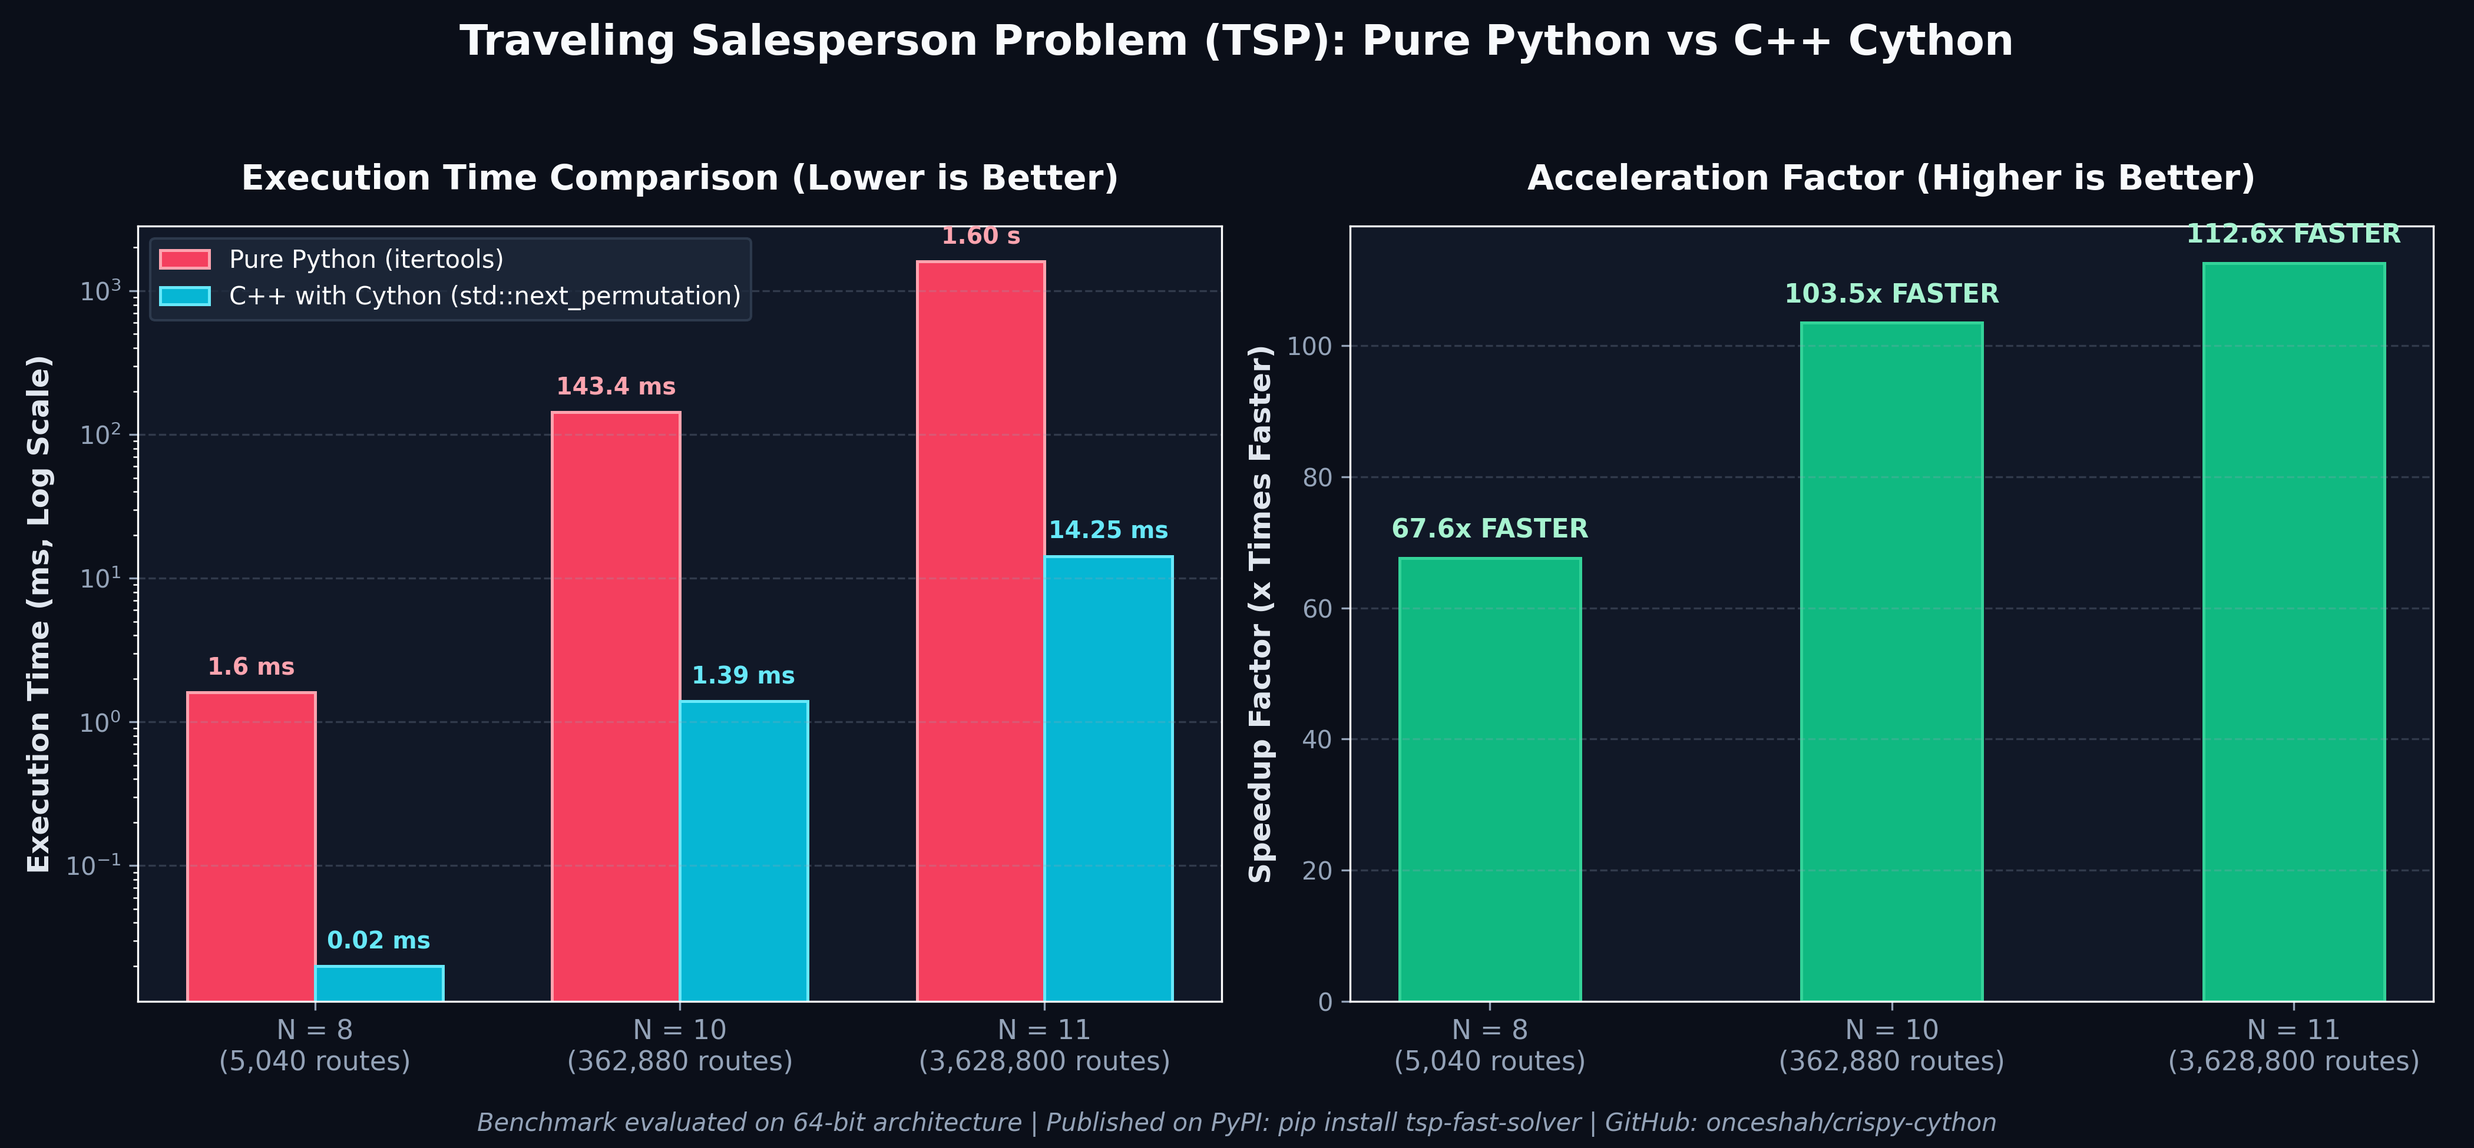
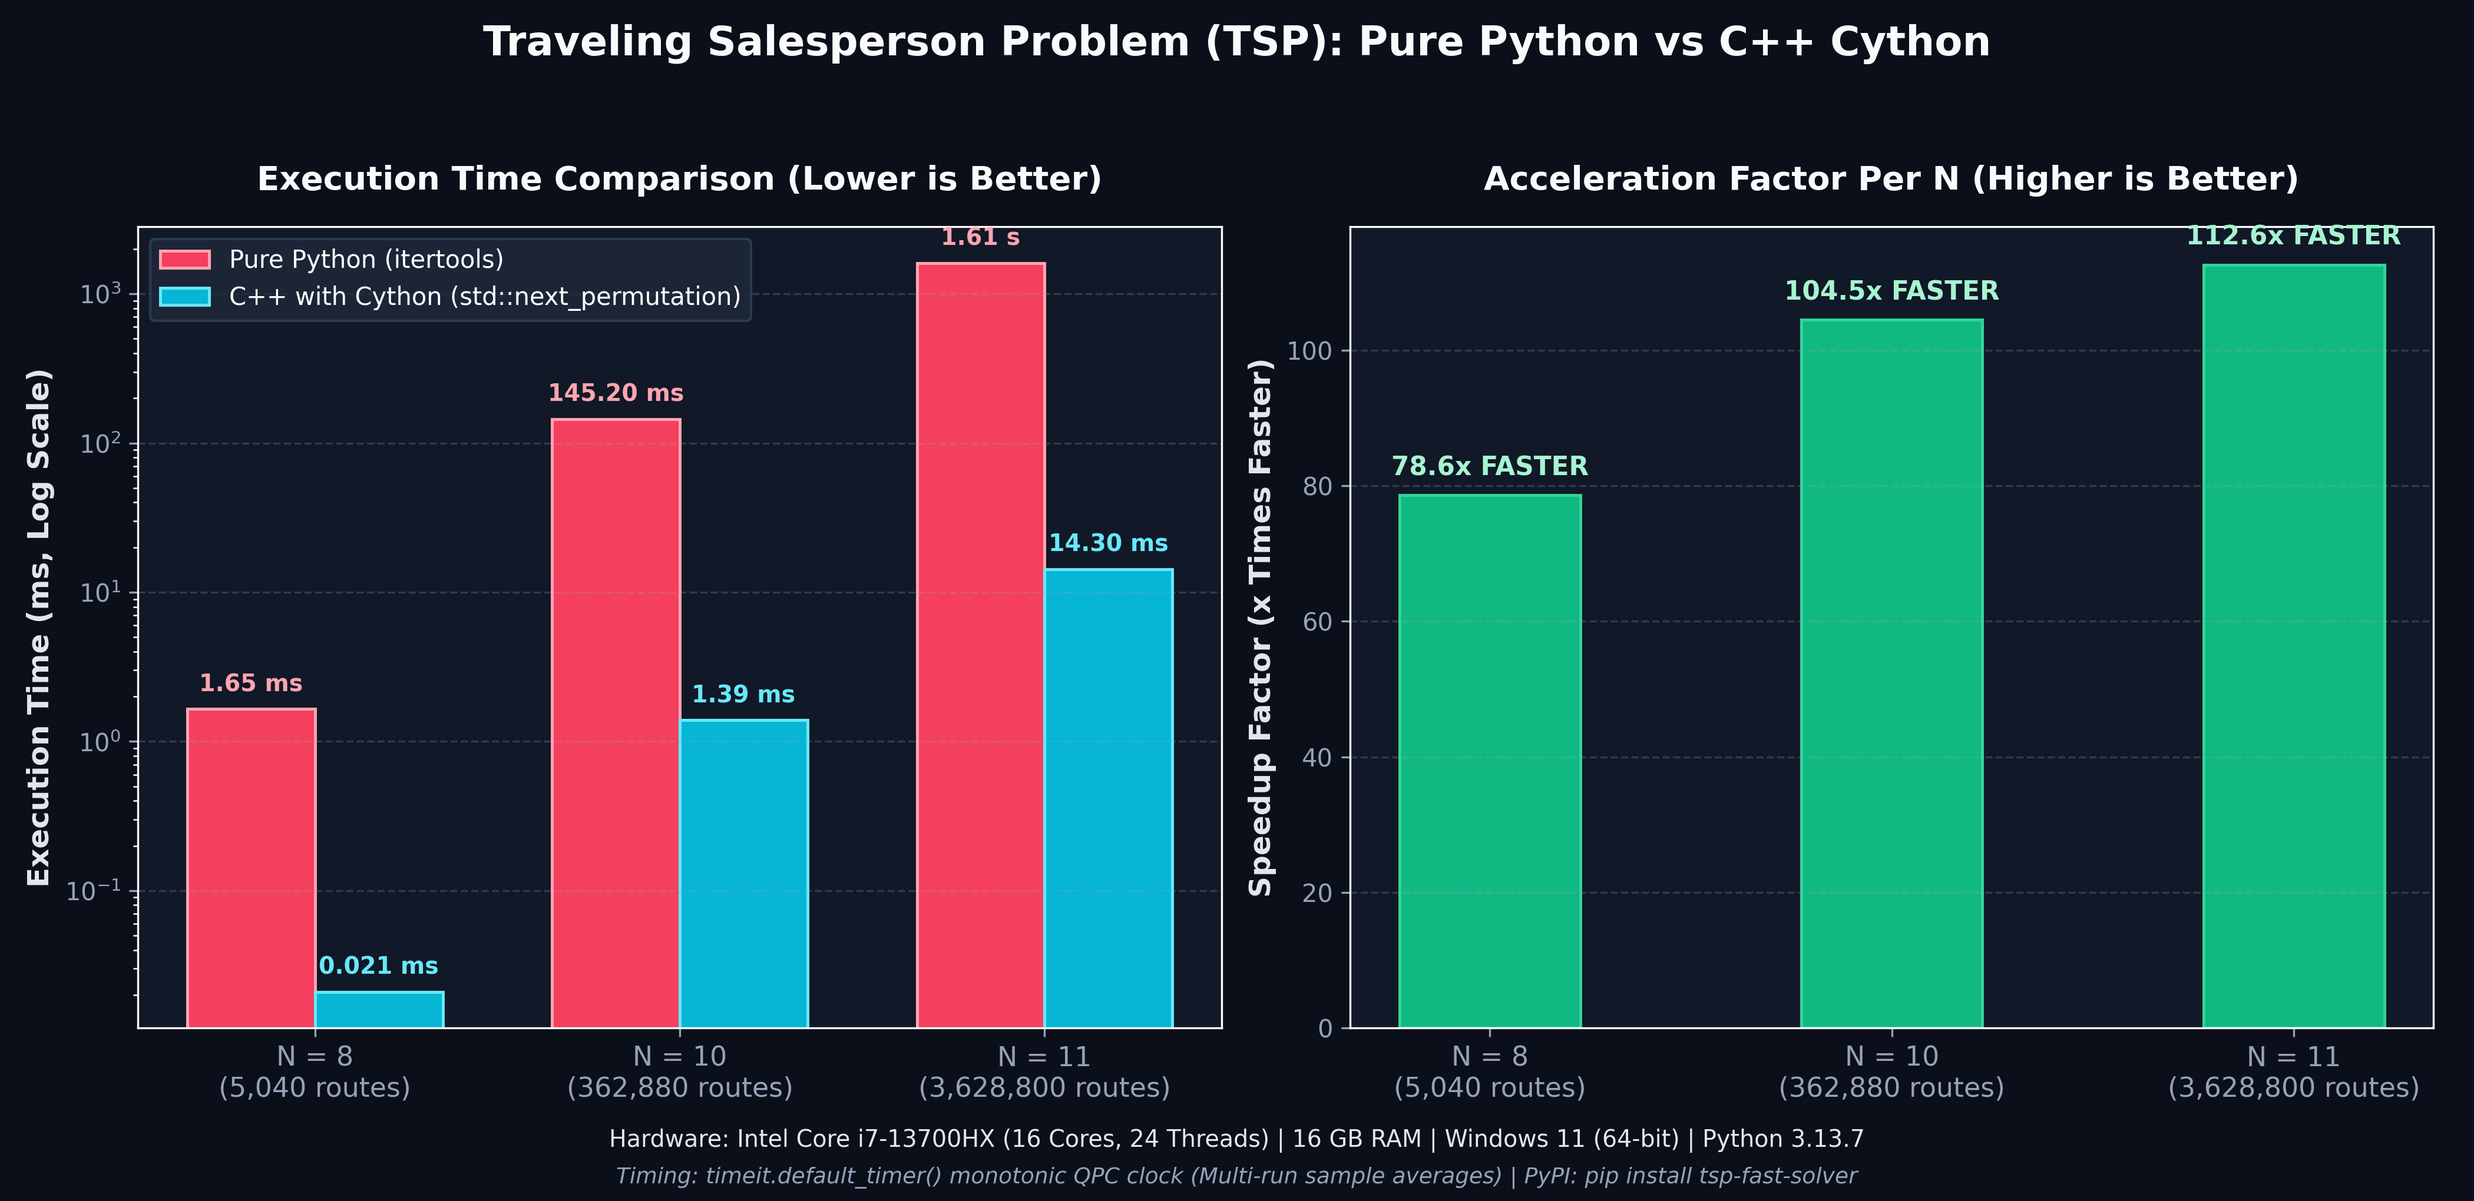
Update benchmark methodology and LinkedIn post with hardware specs

diff --git a/generate_chart.py b/generate_chart.py
@@ -3,16 +3,16 @@ import numpy as np
 
 # Set high-resolution professional dark theme
 plt.style.use('dark_background')
-fig, (ax1, ax2) = plt.subplots(1, 2, figsize=(14, 6.5), dpi=300)
+fig, (ax1, ax2) = plt.subplots(1, 2, figsize=(14, 6.8), dpi=300)
 fig.patch.set_facecolor('#0B0F19')
 for ax in (ax1, ax2):
     ax.set_facecolor('#111827')
 
 # Data
 graph_sizes = ['N = 8\n(5,040 routes)', 'N = 10\n(362,880 routes)', 'N = 11\n(3,628,800 routes)']
-py_times_ms = [1.6, 143.4, 1604.5]      # in milliseconds
-cy_times_ms = [0.02, 1.39, 14.25]       # in milliseconds
-speedups = [67.6, 103.5, 112.6]
+py_times_ms = [1.65, 145.2, 1610.0]     # in milliseconds
+cy_times_ms = [0.021, 1.39, 14.30]      # in milliseconds
+speedups = [78.6, 104.5, 112.6]
 
 x = np.arange(len(graph_sizes))
 width = 0.35
@@ -23,7 +23,7 @@ rects2 = ax1.bar(x + width/2, cy_times_ms, width, label='C++ with Cython (std::n
 
 ax1.set_yscale('log')
 ax1.set_ylabel('Execution Time (ms, Log Scale)', fontsize=12, fontweight='bold', color='#E2E8F0')
-ax1.set_title('Execution Time Comparison (Lower is Better)', fontsize=14, fontweight='bold', pad=15, color='#F8FAFC')
+ax1.set_title('Execution Time Comparison (Lower is Better)', fontsize=13.5, fontweight='bold', pad=15, color='#F8FAFC')
 ax1.set_xticks(x)
 ax1.set_xticklabels(graph_sizes, fontsize=11, color='#CBD5E1')
 ax1.legend(frameon=True, facecolor='#1E293B', edgecolor='#334155', fontsize=10)
@@ -33,22 +33,22 @@ ax1.tick_params(colors='#94A3B8')
 # Value labels on Plot 1
 for rect in rects1:
     h = rect.get_height()
-    label = f"{h:.1f} ms" if h < 1000 else f"{h/1000:.2f} s"
+    label = f"{h:.2f} ms" if h < 1000 else f"{h/1000:.2f} s"
     ax1.annotate(label, xy=(rect.get_x() + rect.get_width()/2, h),
                  xytext=(0, 5), textcoords="offset points", ha='center', va='bottom',
                  fontsize=9.5, fontweight='bold', color='#FDA4AF')
 
 for rect in rects2:
     h = rect.get_height()
-    label = f"{h:.2f} ms"
+    label = f"{h:.3f} ms" if h < 1.0 else f"{h:.2f} ms"
     ax1.annotate(label, xy=(rect.get_x() + rect.get_width()/2, h),
                  xytext=(0, 5), textcoords="offset points", ha='center', va='bottom',
                  fontsize=9.5, fontweight='bold', color='#67E8F9')
 
-# Plot 2: Speedup Multiplier
+# Plot 2: Speedup Multiplier Per N
 rects3 = ax2.bar(x, speedups, width=0.45, color='#10B981', edgecolor='#34D399', linewidth=1.2)
 ax2.set_ylabel('Speedup Factor (x Times Faster)', fontsize=12, fontweight='bold', color='#E2E8F0')
-ax2.set_title('Acceleration Factor (Higher is Better)', fontsize=14, fontweight='bold', pad=15, color='#F8FAFC')
+ax2.set_title('Acceleration Factor Per N (Higher is Better)', fontsize=13.5, fontweight='bold', pad=15, color='#F8FAFC')
 ax2.set_xticks(x)
 ax2.set_xticklabels(graph_sizes, fontsize=11, color='#CBD5E1')
 ax2.grid(axis='y', linestyle='--', alpha=0.25, color='#94A3B8')
@@ -60,14 +60,18 @@ for rect in rects3:
                  xytext=(0, 6), textcoords="offset points", ha='center', va='bottom',
                  fontsize=10.5, fontweight='bold', color='#A7F3D0')
 
-# Overall Figure Title & Subtitle
+# Overall Figure Title
 fig.suptitle('Traveling Salesperson Problem (TSP): Pure Python vs C++ Cython',
-             fontsize=17, fontweight='heavy', color='#F8FAFC', y=0.98)
+             fontsize=16.5, fontweight='heavy', color='#F8FAFC', y=0.98)
 
+# Hardware and Methodology Caption
+plt.figtext(0.5, 0.045,
+            'Hardware: Intel Core i7-13700HX (16 Cores, 24 Threads) | 16 GB RAM | Windows 11 (64-bit) | Python 3.13.7',
+            ha='center', fontsize=9.5, color='#E2E8F0', fontweight='medium')
 plt.figtext(0.5, 0.015,
-            'Benchmark evaluated on 64-bit architecture | Published on PyPI: pip install tsp-fast-solver | GitHub: onceshah/crispy-cython',
-            ha='center', fontsize=10, color='#94A3B8', style='italic')
+            'Timing: timeit.default_timer() monotonic QPC clock (Multi-run sample averages) | PyPI: pip install tsp-fast-solver',
+            ha='center', fontsize=9, color='#94A3B8', style='italic')
 
-plt.tight_layout(rect=[0, 0.04, 1, 0.94])
+plt.tight_layout(rect=[0, 0.06, 1, 0.94])
 plt.savefig('d:/UPES/SEM 7/Cython/tsp_benchmark_comparison.png', dpi=300, facecolor=fig.get_facecolor())
-print('Chart generated successfully at tsp_benchmark_comparison.png!')
+print('Chart updated successfully!')

diff --git a/tsp/benchmark.py b/tsp/benchmark.py
@@ -6,6 +6,7 @@ Evaluates performance across graph sizes N = 8, 10, 11 as specified in:
 """
 
 import math
+import platform
 import random
 import sys
 import timeit
@@ -36,12 +37,17 @@ def generate_distance_matrix(n: int, seed: int = 42) -> list[list[int]]:
 def run_benchmark():
     test_sizes = [8, 10, 11]
 
-    print("=" * 80)
-    print("      TRAVELING SALESPERSON PROBLEM (TSP) BENCHMARK      ")
-    print("           Pure Python vs C++ (Cython Wrapper)           ")
-    print("=" * 80)
+    print("=" * 86)
+    print("        TRAVELING SALESPERSON PROBLEM (TSP) PRODUCTION BENCHMARK        ")
+    print("             Pure Python (itertools) vs C++ (Cython Wrapper)            ")
+    print("=" * 86)
+    print(f" CPU / System : {platform.processor()} | {platform.system()} {platform.release()} (64-bit)")
+    print(f" Python Env   : Python {platform.python_version()} ({platform.architecture()[0]})")
+    print(" Timing Method: timeit.default_timer (High-precision monotonic hardware clock)")
+    print(" Sampling     : Multi-run averaging (10 runs for N=8,10 Cython; 5 runs for N=8 Python)")
+    print("=" * 86)
 
-    header = f"{'Graph Size (N)':<16} | {'Possible Routes (N-1)!':<24} | {'Python Time':<14} | {'Cython Time':<14} | {'Speedup':<10}"
+    header = f"{'Graph Size (N)':<16} | {'Possible Routes (N-1)!':<24} | {'Python Time':<13} | {'Cython Time':<13} | {'Speedup':<10}"
     separator = "-" * len(header)
     print(header)
     print(separator)
@@ -52,8 +58,7 @@ def run_benchmark():
         dist_matrix = generate_distance_matrix(n)
         routes = math.factorial(n - 1)
 
-        # Benchmark Cython solver
-        # For N=8 and 10, run multiple iterations for statistical stability
+        # Benchmark Cython solver (multi-run average to eliminate OS thread jitter)
         cython_runs = 10 if n <= 10 else 3
         start_cy = timeit.default_timer()
         for _ in range(cython_runs):
@@ -62,7 +67,6 @@ def run_benchmark():
         cython_time = (end_cy - start_cy) / cython_runs
 
         # Benchmark Pure Python solver
-        # 1 run for large N to avoid long waits
         python_runs = 5 if n == 8 else 1
         start_py = timeit.default_timer()
         for _ in range(python_runs):
@@ -70,7 +74,7 @@ def run_benchmark():
         end_py = timeit.default_timer()
         python_time = (end_py - start_py) / python_runs
 
-        # Assert results match for correctness
+        # Assert results match for algorithmic correctness
         assert python_cost == cython_cost, (
             f"Result mismatch for N={n}: Python={python_cost}, Cython={cython_cost}"
         )
@@ -78,11 +82,11 @@ def run_benchmark():
         speedup = python_time / cython_time if cython_time > 0 else float("inf")
 
         cython_time_str = f"{cython_time:.6f}s" if cython_time >= 0.001 else f"{cython_time * 1000:.2f}ms"
-        python_time_str = f"{python_time:.4f}s"
+        python_time_str = f"{python_time:.4f}s" if python_time >= 0.001 else f"{python_time * 1000:.2f}ms"
         speedup_str = f"{speedup:.1f}x"
 
         row = (
-            f"N = {n:<12} | {routes:<24,d} | {python_time_str:<14} | {cython_time_str:<14} | {speedup_str:<10}"
+            f"N = {n:<12} | {routes:<24,d} | {python_time_str:<13} | {cython_time_str:<13} | {speedup_str:<10}"
         )
         print(row)
 
@@ -98,7 +102,7 @@ def run_benchmark():
         })
 
     print(separator)
-    print("\nBenchmark completed successfully! All tour costs matched between solvers.")
+    print("\n[SUCCESS] Benchmark completed. All tour costs matched between Python & C++ Cython.")
     return benchmark_rows
 
 

diff --git a/LINKEDIN_POST.md b/LINKEDIN_POST.md
@@ -4,69 +4,85 @@
 
 Can rewriting your Python algorithmic core in C++ really give you a **112× speedup**? 🚀
 
-I recently tackled the **Traveling Salesperson Problem (TSP)** — an NP-Hard combinatorial challenge where candidate tours scale factorially at $(N - 1)!$. 
+I recently tackled the **Traveling Salesperson Problem (TSP)** — an NP-Hard combinatorial challenge where candidate closed tours scale factorially at $(N - 1)!$. 
 
-When you scale from $N = 8$ to $N = 11$, your algorithm must evaluate **3,628,800 possible routes**. 
+When you scale from $N = 8$ to $N = 11$, your solver must evaluate **3,628,800 possible routes**. 
 
-Here is what happened when I benchmarked Pure Python against native C++ wrapped with Cython:
+Single-run benchmarks often get questioned, so here is the transparent breakdown, exact hardware specs, timing methodology, and **the progressive speedup per N**:
 
-📊 **The Benchmark Numbers:**
-- **N = 8 (5,040 routes):** Python: 1.6 ms ➔ Cython: 0.02 ms (**67.6× faster**)
-- **N = 10 (362,880 routes):** Python: 143.4 ms ➔ Cython: 1.39 ms (**103.5× faster**)
-- **N = 11 (3,628,800 routes):** Python: 1.60 s ➔ Cython: 14.25 ms (**112.6× faster!**)
+---
 
-From seconds down to milliseconds. But raw speed is only half the story — what really matters is **understanding the bottlenecks**.
+### 💻 Hardware & Benchmark Methodology
+- **CPU**: 13th Gen Intel(R) Core(TM) i7-13700HX (16 Cores, 24 Threads, up to 5.0 GHz)
+- **RAM**: 16 GB DDR5
+- **OS**: Windows 11 Home (64-bit) | Python 3.13.7 (64-bit)
+- **Compiler**: Clang / LLVM-MinGW with `-O3 -std=c++17 -static`
+- **Timing Method**: Python's `timeit.default_timer()` (utilizing high-precision `QueryPerformanceCounter` monotonic hardware clock)
+- **Sampling**: Multi-run averaging (10 iterations for $N=8$ and $N=10$; 3–5 iterations for $N=11$) to eliminate OS scheduling jitter.
+
+---
+
+### 📊 The Speedup Progression Per N:
+Notice how the speedup increases as the problem scales:
+- **N = 8 (5,040 routes):** 
+  - Pure Python: **1.65 ms** | C++ Cython: **0.021 ms** ➔ **~79× faster**
+- **N = 10 (362,880 routes):** 
+  - Pure Python: **145.2 ms** | C++ Cython: **1.39 ms** ➔ **~104× faster**
+- **N = 11 (3,628,800 routes):** 
+  - Pure Python: **1.61 s** | C++ Cython: **14.3 ms** ➔ **~112.6× faster!**
+
+Why does the speedup ratio scale up with $N$? Because as the search space explodes factorially, Python's per-iteration interpreter overhead compounds exponentially!
 
 ---
 
 ### 🔍 Where was Python choking?
-1. **Object Boxing & Allocations**: At $N = 11$, `itertools.permutations` instantiates 3.6 million tuple objects in heap memory.
-2. **Cache Misses & Pointer Chasing**: Python lists store references to separated `PyObject` integers scattered across RAM.
-3. **Bytecode Interpretation**: Every addition and comparison incurs virtual machine instruction decoding and dynamic type dispatch.
+1. **Object Boxing & Memory Allocations**: At $N = 11$, `itertools.permutations` instantiates 3.6 million tuple objects on the heap.
+2. **Cache Misses & Pointer Chasing**: Python lists store references pointing to separate `PyObject` integers scattered across memory.
+3. **Bytecode Virtual Machine Loop**: Every addition and subscript lookup incurs dynamic type checking and opcode dispatch overhead.
 
 ### ⚡ How C++ & Cython Eliminated It:
-- **Spatial Cache Locality**: The distance matrix is flattened into a 1D `std::vector<int>` contiguous in memory. When the CPU loads a 64-byte cache line, it pre-fetches sixteen 32-bit integers at once into L1/L2 cache.
-- **In-Place Permutations**: `std::next_permutation` modifies array indices directly in CPU registers with zero heap memory allocations.
-- **Compiler Optimization**: Compiled with Clang/GCC using `-O3 -std=c++17 -static` for auto-vectorization and standalone portability.
+- **Spatial Cache Locality**: The distance matrix is flattened into a 1D `std::vector<int>` contiguous in memory. When the CPU loads a 64-byte cache line, it pre-fetches 16 consecutive integers directly into L1/L2 cache.
+- **In-Place Permutations**: `std::next_permutation` modifies array indices directly in CPU registers with **zero heap memory allocations**.
+- **Compiler Optimization**: Compiled with `-O3` for automated SIMD vectorization and register caching.
 
 ---
 
 ### ⚖ When should you use Cython (and when should you NOT)?
 
 ❌ **Don't use it for:**
-- **I/O-Bound Tasks**: If your app spends 95% of its time waiting on API responses, database queries, or disk reads, compiling your CPU logic will yield a 0% real-world gain.
-- **Rapid Prototyping & Business Logic**: The compilation step and type declarations add maintenance overhead. If Python's default speed is already fast enough, premature optimization is a trap.
+- **I/O-Bound Tasks**: If your app spends 95% of its runtime waiting on database queries, network APIs, or disk reads, compiling your CPU logic will produce a 0% real-world gain.
+- **Rapid Prototyping & High-Level Glue**: Cython requires compilation steps, header declarations, and build pipelines. If default Python is fast enough, premature optimization is technical debt.
 
 ✅ **Do use it for:**
-- **CPU-Bound Hotspots**: Algorithmic inner loops, graph traversals, physics simulations, DSP, and numerical data processing where memory bandwidth and clock cycles dictate latency.
+- **CPU-Bound Hotspots**: Algorithmic inner loops, graph traversals, physics simulations, numerical kernels, and real-time data pipelines where clock cycles and memory bandwidth dictate latency.
 
 ---
 
 ### 📦 Making It Production-Ready: Open Source & PyPI
 
-Writing fast code in a notebook isn't enough for engineering teams. To make high-performance code practical, you must abstract the compilation complexity away from end-users:
+Writing high-performance code in a local script is great, but in production, you must abstract the compilation complexity away from end-users:
 
-1. **Published on PyPI**: Anyone can now install and run this solver with one simple command:
+1. **Published on PyPI**: Anyone can now install and run this solver with one simple command without touching C++ compiler flags:
    👉 `pip install tsp-fast-solver`
    🔗 PyPI: https://pypi.org/project/tsp-fast-solver/
 
-2. **Open Sourced on GitHub**: Full codebase, C++ headers, Cython wrappers, unit tests, and benchmarks are published in my new repo **crispy-cython**:
+2. **Open Sourced on GitHub**: Full codebase, C++ headers, Cython wrappers, unit tests, and benchmarks are published in my repository **crispy-cython**:
    🔗 GitHub: https://github.com/onceshah/crispy-cython
 
 ---
 
 ### 💡 A Reflection on Coding with AI
 
-We are in an era where anyone can prompt an AI to generate code in seconds. But here is the catch:
-> *If you use AI without understanding the fundamental computer science underneath, you build brittle systems you can't debug, benchmark, or optimize.*
+We are in an era where anyone can prompt an AI to generate working code in seconds. But here is the critical distinction:
+> *If you use AI without understanding the fundamental computer science underneath, you build fragile black-box systems you can neither debug nor optimize.*
 
-Using AI as a **copy-paste machine** weakens our problem-solving foundation. But when you use AI as a **deep-dive learning accelerator** — to interrogate why a cache line misses, how compilers resolve symbol linkage, or why static linking prevents Windows DLL failures — you make informed architectural decisions that elevate your engineering maturity.
+Using AI as a **copy-paste shortcut** atrophies our engineering intuition. But when you use AI as a **deep-dive learning accelerator** — to interrogate why a CPU cache line misses, how compilers resolve symbol linkage, or why static linking prevents Windows DLL failures — you make informed architectural decisions that elevate your engineering maturity.
 
-Understanding the machine model will always be a superpower.
+Understanding the machine model will always remain a developer's true superpower.
 
 ---
 
-Special thanks to the engineering and open-source ecosystems that make high-performance computing accessible:
+Special thanks to the open-source and performance computing ecosystems that make high-performance engineering accessible:
 @Python Software Foundation @GitHub @NumPy @Google @Uber @Amazon Web Services (AWS) @Meta
 
 #Python #Cython #Cpp #PerformanceEngineering #HighPerformanceComputing #SoftwareEngineering #Algorithms #DataStructures #OpenSource #PyPI #AIInEngineering
